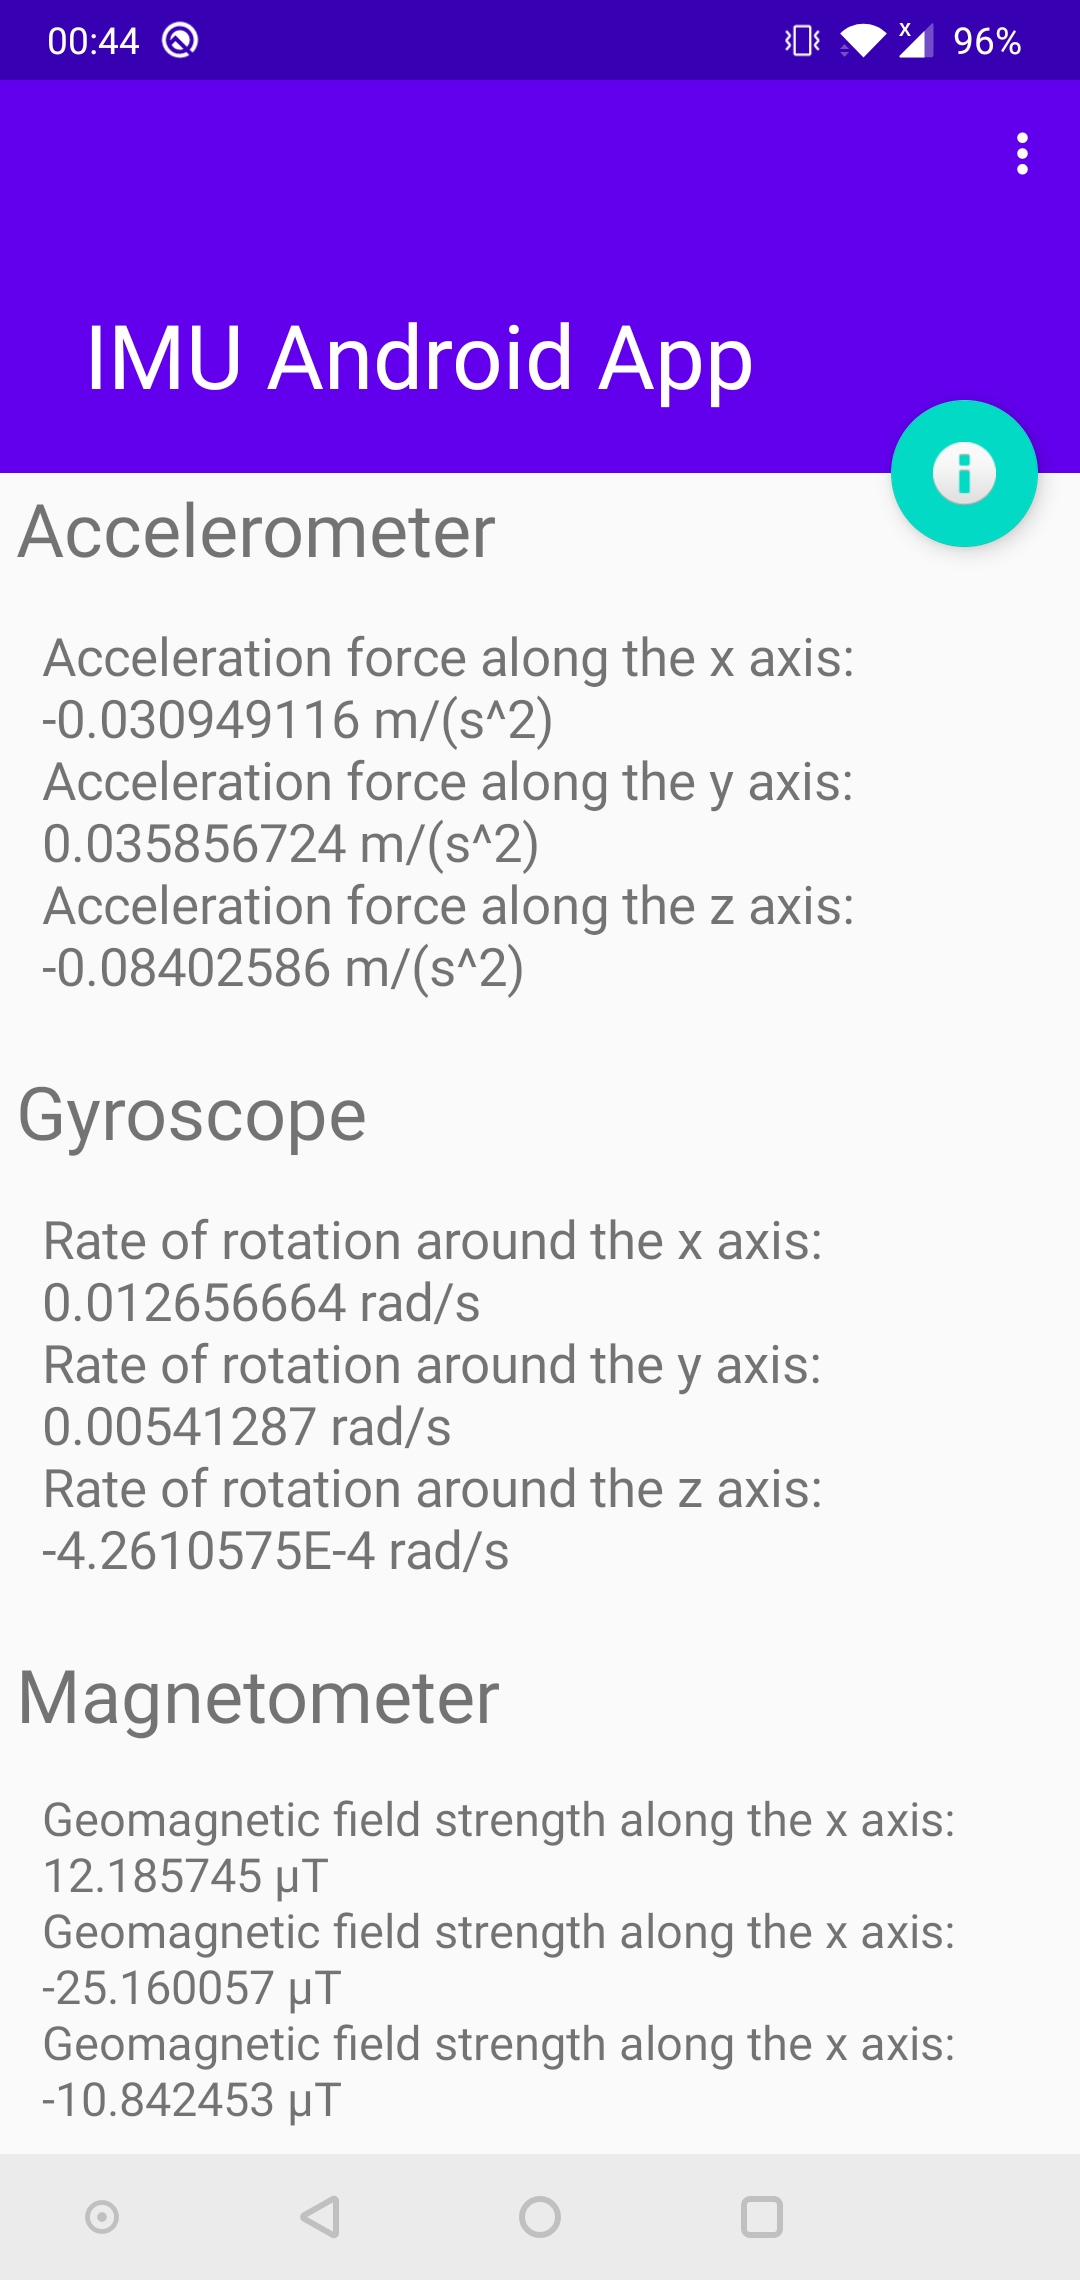
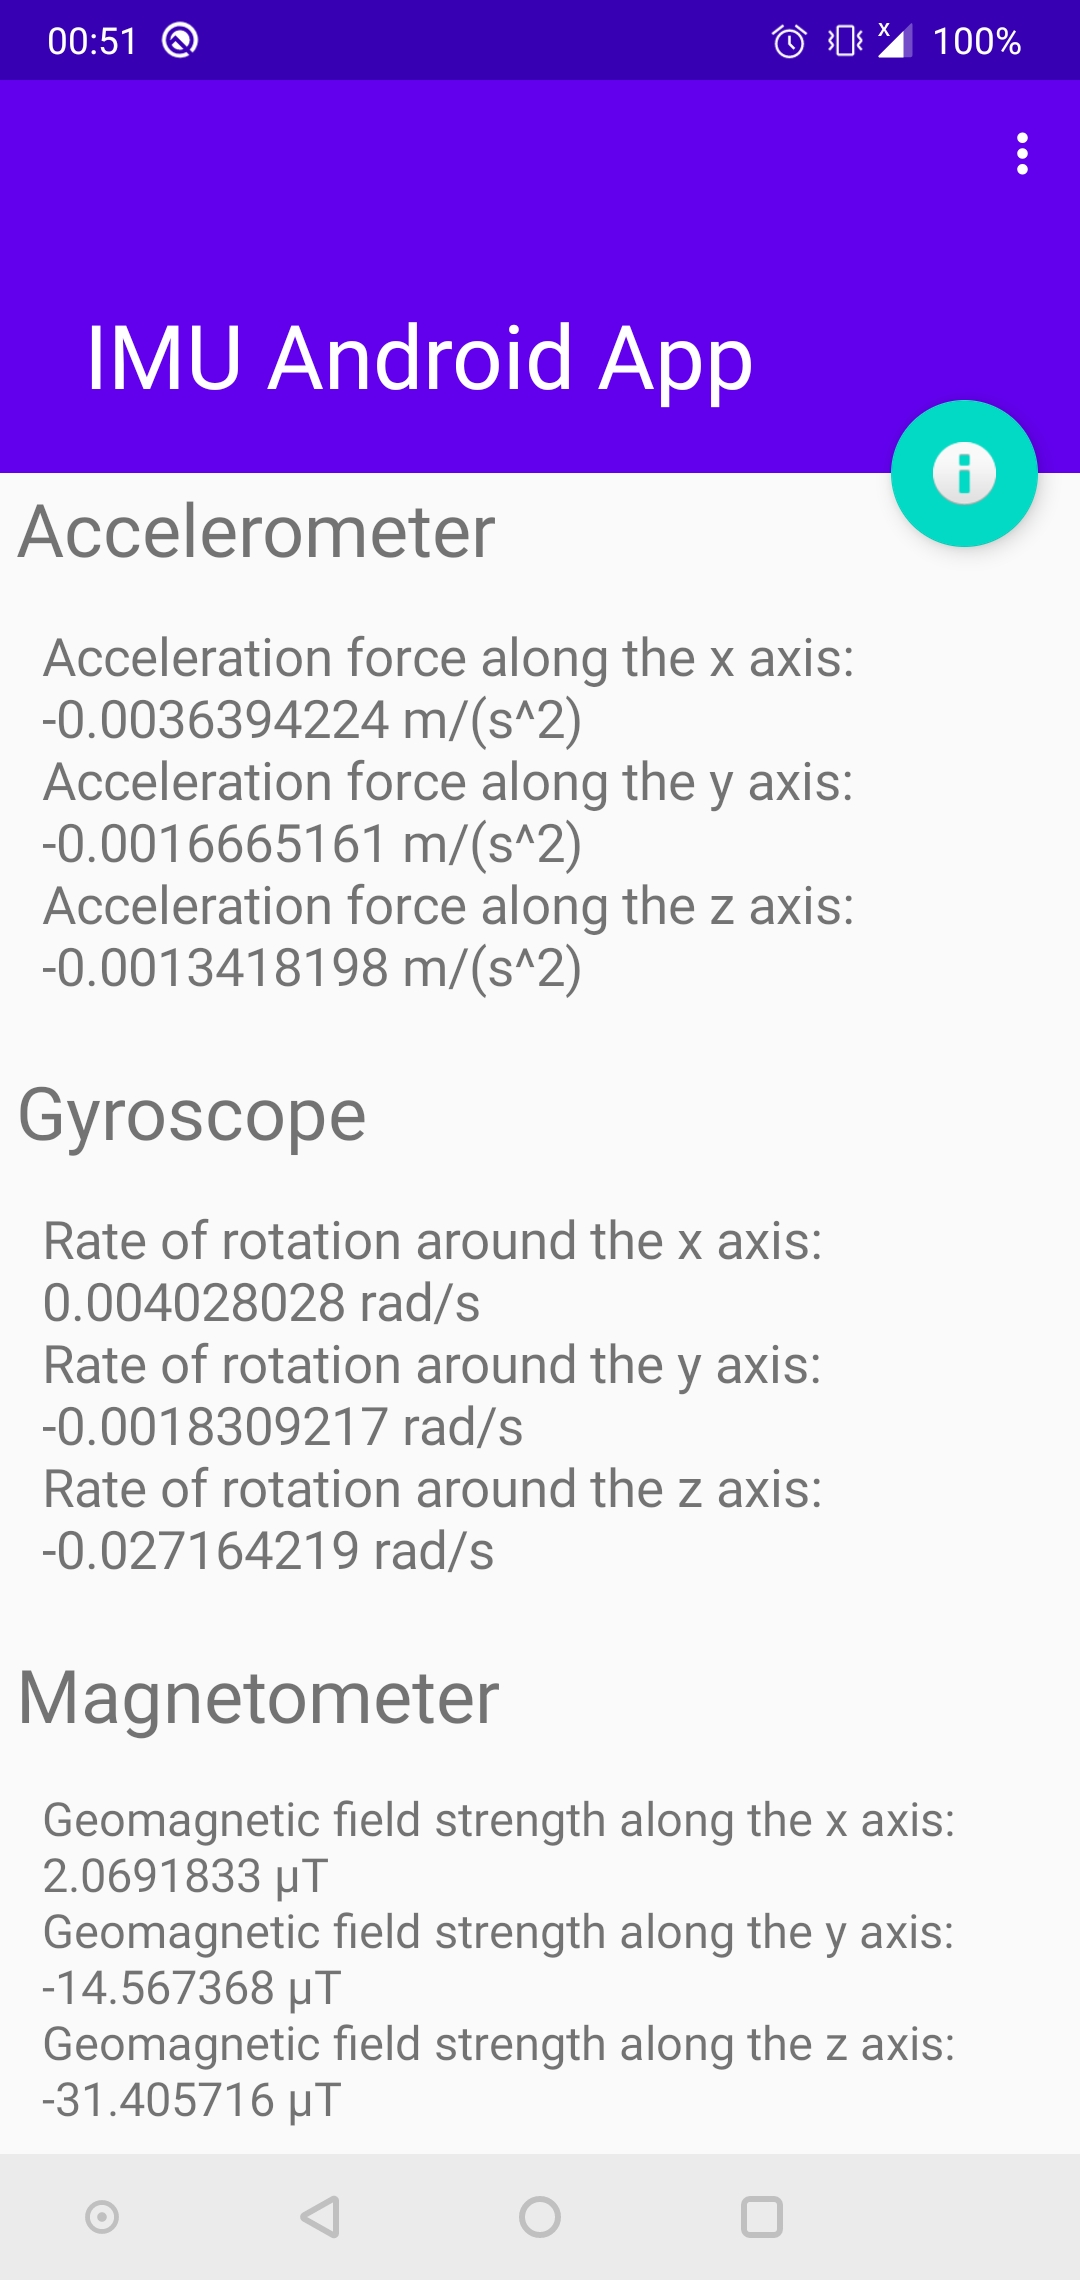
Fix typo

diff --git a/app/src/main/java/com/example/imuandroidapp/ScrollingActivity.java b/app/src/main/java/com/example/imuandroidapp/ScrollingActivity.java
@@ -105,11 +105,11 @@ public class ScrollingActivity extends AppCompatActivity {
                         .append(Float.toString(tx))
                         .append(" μT")
                         .append("\n")
-                        .append("Geomagnetic field strength along the x axis: ")
+                        .append("Geomagnetic field strength along the y axis: ")
                         .append(Float.toString(ty))
                         .append(" μT")
                         .append("\n")
-                        .append("Geomagnetic field strength along the x axis: ")
+                        .append("Geomagnetic field strength along the z axis: ")
                         .append(Float.toString(tz))
                         .append(" μT")
                         .append("\n");
